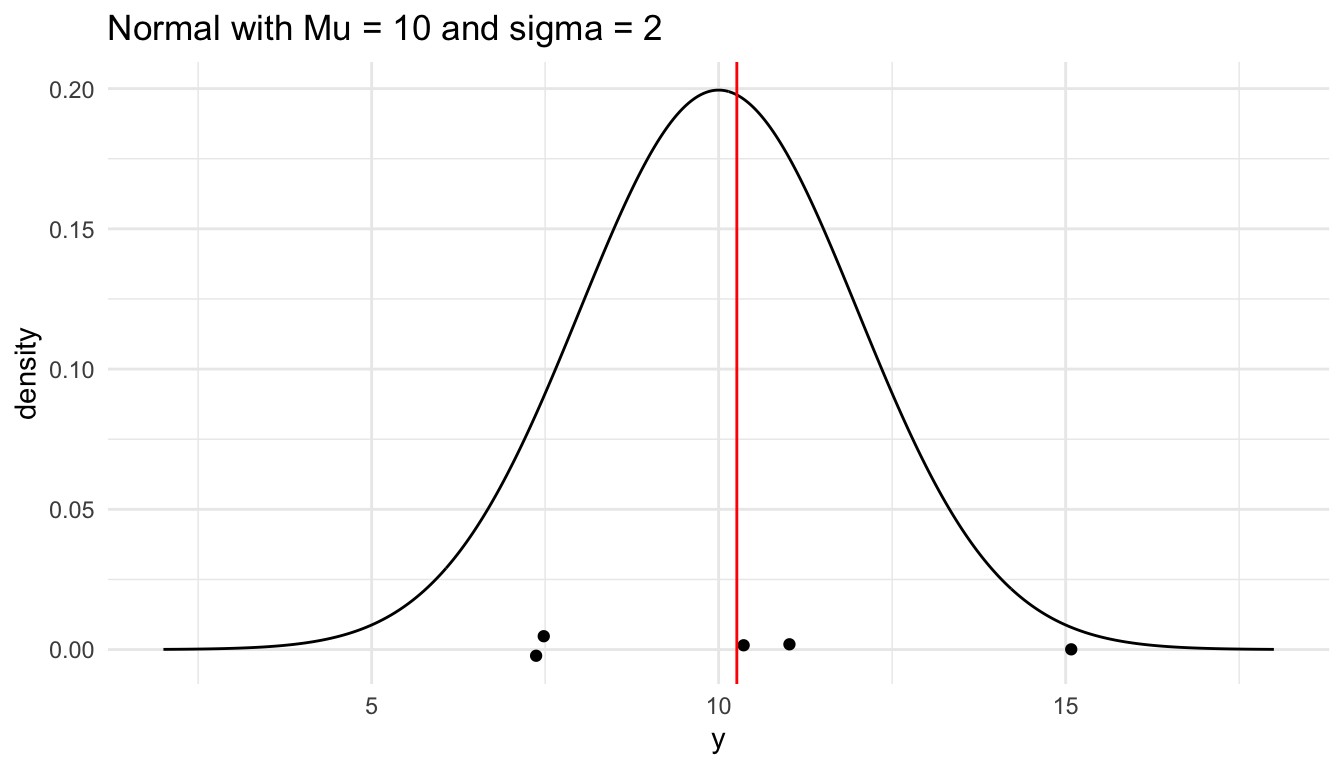
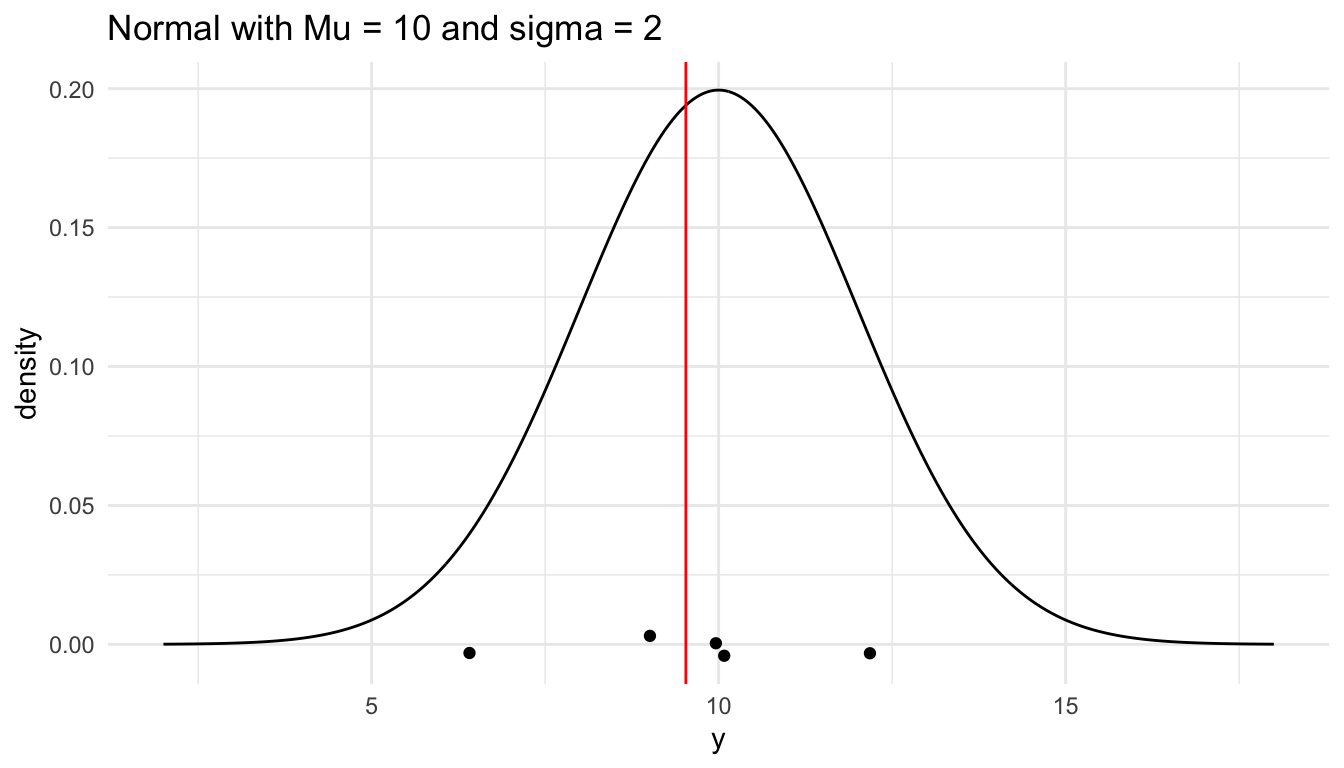
added bayesian miniproject idea.

diff --git a/docs/samp-dist.html b/docs/samp-dist.html
@@ -266,7 +266,7 @@ window.Quarto = {
 <span><span class="va">single_sample</span> <span class="op">&lt;-</span> <span class="fu"><a href="https://rdrr.io/r/stats/Normal.html">rnorm</a></span><span class="op">(</span><span class="va">n</span>, <span class="va">mu</span>, <span class="va">sigma</span><span class="op">)</span> <span class="op">|&gt;</span> <span class="fu"><a href="https://rdrr.io/r/base/Round.html">round</a></span><span class="op">(</span><span class="fl">2</span><span class="op">)</span></span>
 <span><span class="co"># look at the sample</span></span>
 <span><span class="va">single_sample</span> </span>
-<span><span class="co">#&gt; [1] 14.33 13.12 12.15 10.04 12.45</span></span></code><button title="Copy to Clipboard" class="code-copy-button"><i class="bi"></i></button></pre></div>
+<span><span class="co">#&gt; [1]  5.75  7.19 11.53 10.17  7.53</span></span></code><button title="Copy to Clipboard" class="code-copy-button"><i class="bi"></i></button></pre></div>
 </div>
 <p>Next, we compute the sample mean from this sample: this is our sample statistic we are interested in.</p>
 <div class="cell">
@@ -274,7 +274,7 @@ window.Quarto = {
 <span><span class="va">sample_mean</span> <span class="op">&lt;-</span> <span class="fu"><a href="https://rdrr.io/r/base/mean.html">mean</a></span><span class="op">(</span><span class="va">single_sample</span><span class="op">)</span></span>
 <span><span class="co"># look at the sample mean</span></span>
 <span><span class="va">sample_mean</span>     </span>
-<span><span class="co">#&gt; [1] 12.418</span></span></code><button title="Copy to Clipboard" class="code-copy-button"><i class="bi"></i></button></pre></div>
+<span><span class="co">#&gt; [1] 8.434</span></span></code><button title="Copy to Clipboard" class="code-copy-button"><i class="bi"></i></button></pre></div>
 </div>
 <p>Again, your sample mean should be different!</p>
 <p>Finally, we can make a plot of our single sample, along with where the sample mean lies.</p>
@@ -324,7 +324,7 @@ window.Quarto = {
 <span></span>
 <span><span class="co">## test function once:</span></span>
 <span><span class="fu">generate_normal_mean</span><span class="op">(</span>mu <span class="op">=</span> <span class="va">mu</span>, sigma <span class="op">=</span> <span class="va">sigma</span>, n <span class="op">=</span> <span class="va">n</span><span class="op">)</span></span>
-<span><span class="co">#&gt; [1] 9.49933</span></span></code><button title="Copy to Clipboard" class="code-copy-button"><i class="bi"></i></button></pre></div>
+<span><span class="co">#&gt; [1] 9.917306</span></span></code><button title="Copy to Clipboard" class="code-copy-button"><i class="bi"></i></button></pre></div>
 </div>
 <p>Next, to generate 5000 sample means, we map through the function:</p>
 <div class="cell">
@@ -342,12 +342,12 @@ window.Quarto = {
 <span><span class="co">#&gt; # A tibble: 5,000 × 1</span></span>
 <span><span class="co">#&gt;   means</span></span>
 <span><span class="co">#&gt;   &lt;dbl&gt;</span></span>
-<span><span class="co">#&gt; 1 11.1 </span></span>
-<span><span class="co">#&gt; 2  9.64</span></span>
-<span><span class="co">#&gt; 3  8.67</span></span>
-<span><span class="co">#&gt; 4  8.99</span></span>
-<span><span class="co">#&gt; 5 10.0 </span></span>
-<span><span class="co">#&gt; 6  9.29</span></span>
+<span><span class="co">#&gt; 1  9.25</span></span>
+<span><span class="co">#&gt; 2 10.3 </span></span>
+<span><span class="co">#&gt; 3  8.54</span></span>
+<span><span class="co">#&gt; 4  7.55</span></span>
+<span><span class="co">#&gt; 5  9.56</span></span>
+<span><span class="co">#&gt; 6  9.59</span></span>
 <span><span class="co">#&gt; # ℹ 4,994 more rows</span></span></code><button title="Copy to Clipboard" class="code-copy-button"><i class="bi"></i></button></pre></div>
 </div>
 <p>Finally, we plot the 5000 sample means to see what our sampling distribution of the sample mean (for a sample size of 5) looks like.</p>
@@ -373,7 +373,7 @@ window.Quarto = {
 <span><span class="co">#&gt; # A tibble: 1 × 3</span></span>
 <span><span class="co">#&gt;   mean_samp_dist var_samp_dist sd_samp_dist</span></span>
 <span><span class="co">#&gt;            &lt;dbl&gt;         &lt;dbl&gt;        &lt;dbl&gt;</span></span>
-<span><span class="co">#&gt; 1           9.98         0.799        0.894</span></span></code><button title="Copy to Clipboard" class="code-copy-button"><i class="bi"></i></button></pre></div>
+<span><span class="co">#&gt; 1           10.0         0.816        0.904</span></span></code><button title="Copy to Clipboard" class="code-copy-button"><i class="bi"></i></button></pre></div>
 </div>
 <p>And, we can even obtain estimates of the probability that we observe a sample mean larger than 11 by <strong>calculating the proportion of our observed sample means that are larger than 11</strong>. We can use a similar strategy to estimate the probability that we observe a sample mean less than or equal to 9.5.</p>
 <div class="cell">
@@ -385,7 +385,7 @@ window.Quarto = {
 <span><span class="co">#&gt; # A tibble: 1 × 1</span></span>
 <span><span class="co">#&gt;   prob_more_than_11</span></span>
 <span><span class="co">#&gt;               &lt;dbl&gt;</span></span>
-<span><span class="co">#&gt; 1             0.125</span></span>
+<span><span class="co">#&gt; 1             0.126</span></span>
 <span></span>
 <span><span class="co"># What is the probability that we observe a sample mean less than or equal to 9.5?</span></span>
 <span><span class="va">means_df</span> <span class="op">|&gt;</span></span>
@@ -395,7 +395,7 @@ window.Quarto = {
 <span><span class="co">#&gt; # A tibble: 1 × 1</span></span>
 <span><span class="co">#&gt;   prob_less_9.5</span></span>
 <span><span class="co">#&gt;           &lt;dbl&gt;</span></span>
-<span><span class="co">#&gt; 1         0.297</span></span></code><button title="Copy to Clipboard" class="code-copy-button"><i class="bi"></i></button></pre></div>
+<span><span class="co">#&gt; 1         0.287</span></span></code><button title="Copy to Clipboard" class="code-copy-button"><i class="bi"></i></button></pre></div>
 </div>
 <p><strong>Exercise 1</strong>. Repeat the construction of the sampling distribution of the sample mean several times. How do the results change (or not)?</p>
 <p><strong>Exercise 2</strong>. Use the result from Stat 325 to report the theoretical distribution of the sample mean. Use this result to find <span class="math inline">\(P(\bar{Y}\leq 9.5)\)</span> and <span class="math inline">\(P(\bar{Y}&gt;11)\)</span> analytically.</p>
@@ -476,7 +476,7 @@ window.Quarto = {
 <span></span>
 <span><span class="co">## test function once:</span></span>
 <span><span class="fu">generate_exp_mean</span><span class="op">(</span>lambda <span class="op">=</span> <span class="va">lambda</span>, n <span class="op">=</span> <span class="va">n</span><span class="op">)</span></span>
-<span><span class="co">#&gt; [1] 1.816715</span></span>
+<span><span class="co">#&gt; [1] 2.110463</span></span>
 <span></span>
 <span><span class="va">nsim</span> <span class="op">&lt;-</span> <span class="fl">5000</span>      <span class="co"># number of simulations</span></span>
 <span></span>
@@ -489,12 +489,12 @@ window.Quarto = {
 <span><span class="co">#&gt; # A tibble: 5,000 × 1</span></span>
 <span><span class="co">#&gt;   means</span></span>
 <span><span class="co">#&gt;   &lt;dbl&gt;</span></span>
-<span><span class="co">#&gt; 1  3.20</span></span>
-<span><span class="co">#&gt; 2  2.22</span></span>
-<span><span class="co">#&gt; 3  1.91</span></span>
-<span><span class="co">#&gt; 4  2.09</span></span>
-<span><span class="co">#&gt; 5  1.80</span></span>
-<span><span class="co">#&gt; 6  2.14</span></span>
+<span><span class="co">#&gt; 1  1.82</span></span>
+<span><span class="co">#&gt; 2  2.13</span></span>
+<span><span class="co">#&gt; 3  2.13</span></span>
+<span><span class="co">#&gt; 4  1.37</span></span>
+<span><span class="co">#&gt; 5  1.01</span></span>
+<span><span class="co">#&gt; 6  1.86</span></span>
 <span><span class="co">#&gt; # ℹ 4,994 more rows</span></span>
 <span></span>
 <span><span class="fu"><a href="https://ggplot2.tidyverse.org/reference/ggplot.html">ggplot</a></span><span class="op">(</span>data <span class="op">=</span> <span class="va">means_df</span>, <span class="fu"><a href="https://ggplot2.tidyverse.org/reference/aes.html">aes</a></span><span class="op">(</span>x <span class="op">=</span> <span class="va">means</span><span class="op">)</span><span class="op">)</span> <span class="op">+</span></span>
